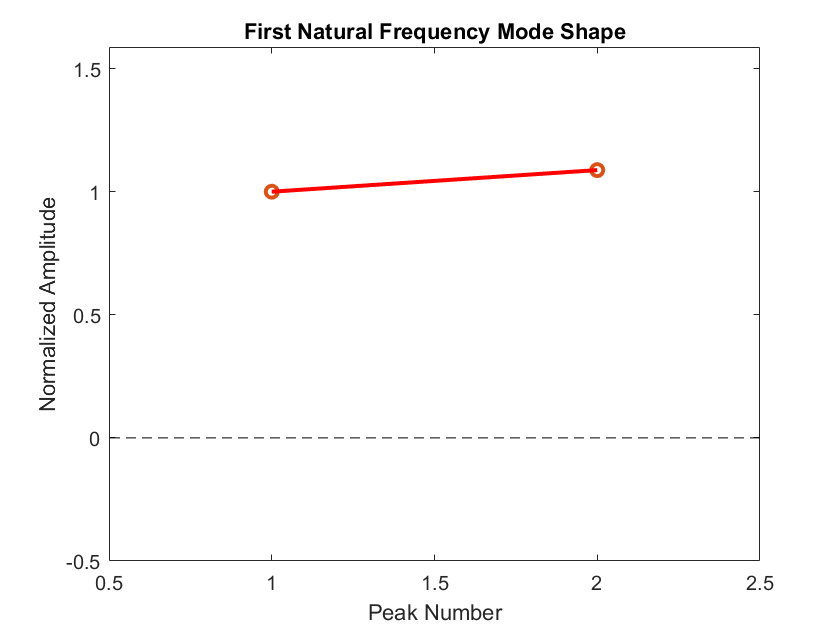
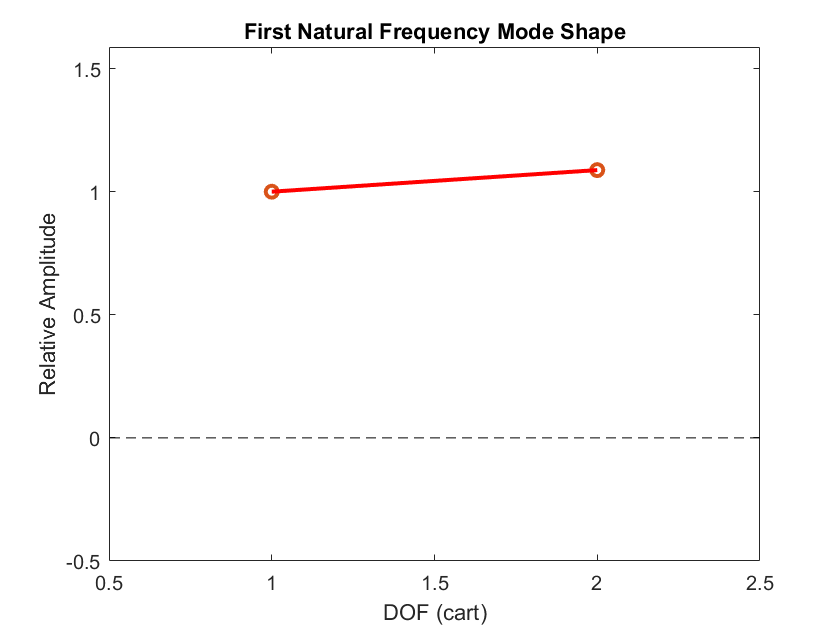
starting q7

Changed region(s): [[0.031, 0.3016, 0.0929, 0.6635], [0.4333, 0.9349, 0.5881, 0.9952]]

diff --git a/Lab 4/Lab4_3.m b/Lab 4/Lab4_3.m
@@ -119,3 +119,31 @@ for i = [2 4]
     figure()
     draw_mode_shape(Z1(i),Z2(i),i)    
 end
+
+%% Question 7
+
+for i = 1:5
+[t1,y_dof1,y_dof2] = mdof_odesolver(freq(i),1,30);
+[t, force, disp1, disp2] = readf(time_files(i));
+
+figure()
+subplot(2,1,1)
+hold on
+plot(t1,y_dof1*1000)  % plot the displacement response of DOF#1
+xlabel('Time(sec)')
+ylabel('DOF#1 (X1) Response')
+plot(t,disp1)
+legend("simulaion","experimental")
+grid on
+hold off
+
+subplot(2,1,2)
+hold on
+plot(t1,y_dof2*1000) % plot the displacement response of DOF#2
+plot(t,disp1)  % plot the experimental 
+xlabel('Time(sec)')
+ylabel('DOF#2 (X2) Response')
+hold off
+grid on
+
+end

diff --git a/Lab 4/draw_mode_shape.m b/Lab 4/draw_mode_shape.m
@@ -3,6 +3,10 @@ function draw_mode_shape(Z1,Z2,i)
 x1 = 1;     %set the first degree-of-freedom amplitude (generally normalized to 1)
 x2 = Z2/Z1;    %second degree-of-freedom amplitude
 
+if i/2 == 2
+    x2 = -x2;
+end
+
 %Plot the dash line to show the zero datum
 plot ([0 2.5],[0 0],'--k');
 hold on
@@ -22,8 +26,8 @@ elseif i/2 == 2
     natural_freq = "Second";
 end
 
-xlabel("Peak Number")
-ylabel("Normalized Amplitude")
+xlabel("DOF (cart)")
+ylabel("Relative Amplitude")
 title(natural_freq+ " Natural Frequency Mode Shape")
 
 end
